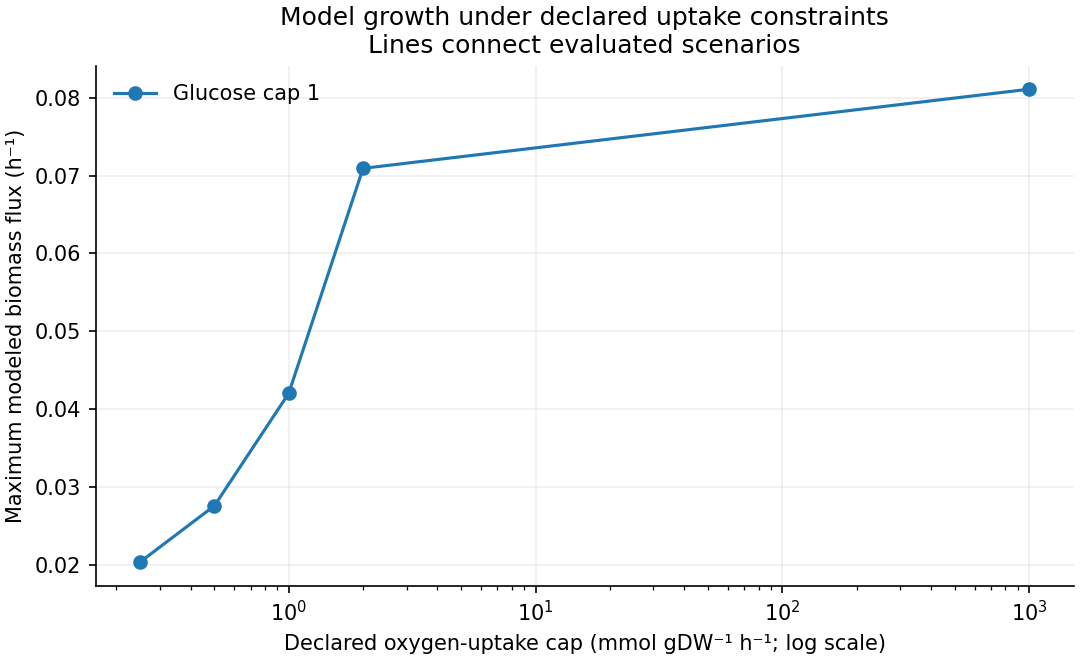
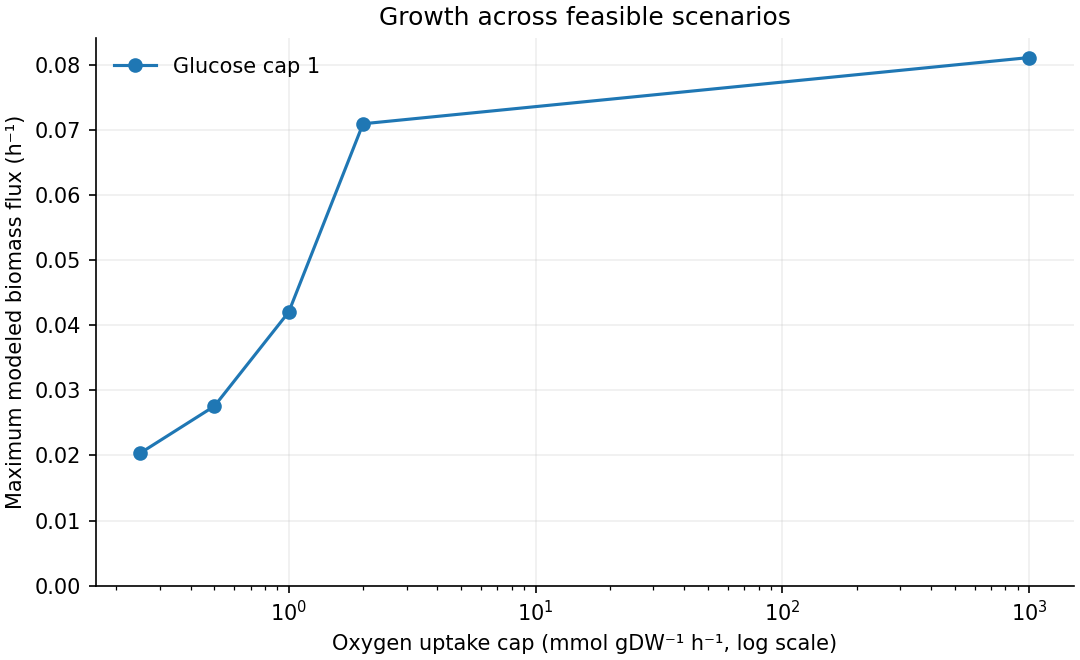
Report and illustrate only the configured flux scenarios

diff --git a/run.py b/run.py
@@ -29,8 +29,10 @@ def plots(result, directory):
     for cap in sorted({r['glucose_uptake_cap'] for r in rows}):
         subset=sorted([r for r in rows if r['glucose_uptake_cap']==cap],key=lambda r:r['oxygen_uptake_cap'])
         ax.plot([r['oxygen_uptake_cap'] for r in subset], [r['growth'] for r in subset], 'o-',label=f'Glucose cap {cap:g}')
-    ax.set_xscale('log'); ax.set(xlabel='Declared oxygen-uptake cap (mmol gDW⁻¹ h⁻¹; log scale)',
-                                ylabel='Maximum modeled biomass flux (h⁻¹)', title='Model growth under declared uptake constraints\nLines connect evaluated scenarios')
+    ax.set_xscale('log')
+    ax.set(xlabel='Oxygen uptake cap (mmol gDW⁻¹ h⁻¹, log scale)',
+           ylabel='Maximum modeled biomass flux (h⁻¹)', title='Growth across feasible scenarios')
+    ax.set_ylim(bottom=0)
     if rows:ax.legend(frameon=False)
     else:ax.text(.5,.5,'No optimal scenarios; inspect the status report',ha='center',transform=ax.transAxes)
     ax.spines[['top','right']].set_visible(False); ax.grid(alpha=.2)
@@ -82,15 +84,28 @@ def run(data_dir, config_path, output_dir, make_plots=True):
         csv_file(stage/'scenarios.csv',result['scenarios'],['name','glucose_uptake_cap','oxygen_uptake_cap','status','growth','max_balance_residual','max_bound_violation','duality_gap'])
         csv_file(stage/'fva.csv',result['ranges'],['scenario','reaction','name','growth_fraction','requested_growth_floor','growth_floor','growth_floor_slack','minimum','maximum','minimum_status','maximum_status','touches_artificial_cap'])
         np.savez_compressed(stage/'fba_fluxes.npz',**result['vectors'])
-        lines=['# Yeast flux constraints', '', 'These are model solutions under declared bounds, not measurements.', '',
+        scenarios = result['scenarios']
+        optimal = sum(row['status'] == 'optimal' for row in scenarios)
+        lines=['# Yeast flux constraints', '',
+               f"The model reached a growth optimum in {optimal} of {len(scenarios)} configured scenarios.",
+               'Each cap limits uptake. The solver maximizes the biomass objective under the remaining model constraints.', '',
                '| Scenario | Oxygen cap | Glucose cap | Status | Maximum biomass flux |', '| --- | ---: | ---: | --- | ---: |']
         for r in result['scenarios']:
             growth='—' if r['growth'] is None else f"{r['growth']:.6f}"
             lines.append(f"| {r['name']} | {r['oxygen_uptake_cap']} | {r['glucose_uptake_cap']} | {r['status']} | {growth} |")
-        lines+=['', 'Exchange fluxes use mmol gDW⁻¹ h⁻¹; biomass flux uses h⁻¹. Uptake is negative.', '',
-                'The zero-glucose diagnostic is infeasible with the fixed maintenance requirement; no growth value is substituted for a failed solve.', '',
-                'FVA ranges are individual feasible extrema conditional on the declared growth fraction. They are not confidence intervals, may involve different solutions, and can include internal cycles.', '',
-                'Changing oxygen bounds alone does not implement a physiological anaerobic model or validate the Crabtree effect.']
+        lines += ['', 'Exchange fluxes use mmol gDW⁻¹ h⁻¹. Growth uses h⁻¹. A negative exchange flux means uptake.']
+        for row in scenarios:
+            if row['status'] == 'infeasible' and row['glucose_uptake_cap'] == 0:
+                lines += ['', f"With glucose uptake set to zero, `{row['name']}` has no feasible solution under the retained constraints. The dash in the growth column marks that outcome."]
+        if result['ranges']:
+            lines += ['', 'Each FVA interval gives one reaction’s feasible range at the stated growth requirement. '
+                      'Different endpoints can come from different flux vectors, including vectors with internal cycles.']
+        if make_plots and optimal:
+            lines += ['', '![Modeled growth against the oxygen uptake cap for feasible scenarios](growth_constraints.png)']
+        if make_plots and result['ranges']:
+            lines += ['', '![Feasible flux interval by growth requirement for the reaction named on the plot](ethanol_fva.png)']
+        lines += ['', 'These predictions describe steady states in the pinned yeast model. '
+                  'Measured growth and flux would be needed to assess agreement with yeast cultures.']
         (stage/'report.md').write_text('\n'.join(lines)+'\n', encoding='utf-8')
         if make_plots:plots(result,stage)
         run_manifest={'schema_version':1,'source_manifest_sha256':digest(data_dir/'provenance.json'),

diff --git a/tests/test_flux.py b/tests/test_flux.py
@@ -127,6 +127,19 @@ class ReproductionTests(unittest.TestCase):
                 self.assertEqual(diagnostics['status'],'optimal')
                 self.assertLessEqual(diagnostics['max_balance_residual'],1e-7)
 
+    def test_report_only_describes_configured_outputs(self):
+        config = json.loads((ROOT / 'scenarios.json').read_text())
+        config['scenarios'] = [config['scenarios'][1]]
+        with tempfile.TemporaryDirectory() as tmp:
+            root = Path(tmp)
+            (root / 'config.json').write_text(json.dumps(config))
+            run(ROOT / 'data', root / 'config.json', root / 'out', make_plots=False)
+            report = (root / 'out' / 'report.md').read_text(encoding='utf-8')
+            self.assertIn('1 of 1 configured scenarios', report)
+            self.assertNotIn('glucose uptake set to zero', report)
+            self.assertNotIn('FVA interval', report)
+            self.assertNotIn('.png)', report)
+
     def test_saved_vectors_and_interior_point_crosscheck(self):
         result=verify(ROOT/'data',ROOT/'scenarios.json',self.out)
         self.assertTrue(result['verified']);self.assertEqual(result['fva_rows'],36)

diff --git a/results/report.md b/results/report.md
@@ -1,6 +1,7 @@
 # Yeast flux constraints
 
-These are model solutions under declared bounds, not measurements.
+The model reached a growth optimum in 5 of 6 configured scenarios.
+Each cap limits uptake. The solver maximizes the biomass objective under the remaining model constraints.
 
 | Scenario | Oxygen cap | Glucose cap | Status | Maximum biomass flux |
 | --- | ---: | ---: | --- | ---: |
@@ -11,10 +12,14 @@ These are model solutions under declared bounds, not measurements.
 | oxygen_025 | 0.25 | 1 | optimal | 0.020341 |
 | no_glucose_diagnostic | 1000 | 0 | infeasible | — |
 
-Exchange fluxes use mmol gDW⁻¹ h⁻¹; biomass flux uses h⁻¹. Uptake is negative.
+Exchange fluxes use mmol gDW⁻¹ h⁻¹. Growth uses h⁻¹. A negative exchange flux means uptake.
 
-The zero-glucose diagnostic is infeasible with the fixed maintenance requirement; no growth value is substituted for a failed solve.
+With glucose uptake set to zero, `no_glucose_diagnostic` has no feasible solution under the retained constraints. The dash in the growth column marks that outcome.
 
-FVA ranges are individual feasible extrema conditional on the declared growth fraction. They are not confidence intervals, may involve different solutions, and can include internal cycles.
+Each FVA interval gives one reaction’s feasible range at the stated growth requirement. Different endpoints can come from different flux vectors, including vectors with internal cycles.
 
-Changing oxygen bounds alone does not implement a physiological anaerobic model or validate the Crabtree effect.
+![Modeled growth against the oxygen uptake cap for feasible scenarios](growth_constraints.png)
+
+![Feasible flux interval by growth requirement for the reaction named on the plot](ethanol_fva.png)
+
+These predictions describe steady states in the pinned yeast model. Measured growth and flux would be needed to assess agreement with yeast cultures.

diff --git a/README.md b/README.md
@@ -43,7 +43,7 @@ python -m unittest discover -s tests -v
 
 On Windows, activate the environment with `.venv\Scripts\activate`.
 
-The 530 kB model and source license are included; the analysis needs no network or commercial solver. The included `scenarios.json` is the full scenario contract.
+The 530 kB model and source license are included; the analysis needs no network or commercial solver. The included `scenarios.json` sets the six default scenarios. Pass a different file with `--config PATH` to both the runner and verifier. Open the generated `report.md` to see how many scenarios reached an optimum, which cases were infeasible and the plots requested for that run.
 
 The commands above write to and verify `.reproduction/`, keeping the checked-in example intact. Choose another directory with `--output-dir PATH` and pass the same path to the verifier's `--results-dir`; omitting `--output-dir` replaces files in `results/`. `--no-plots` skips figures. The Markdown report uses UTF-8 to preserve scientific units across system text encodings.
 
